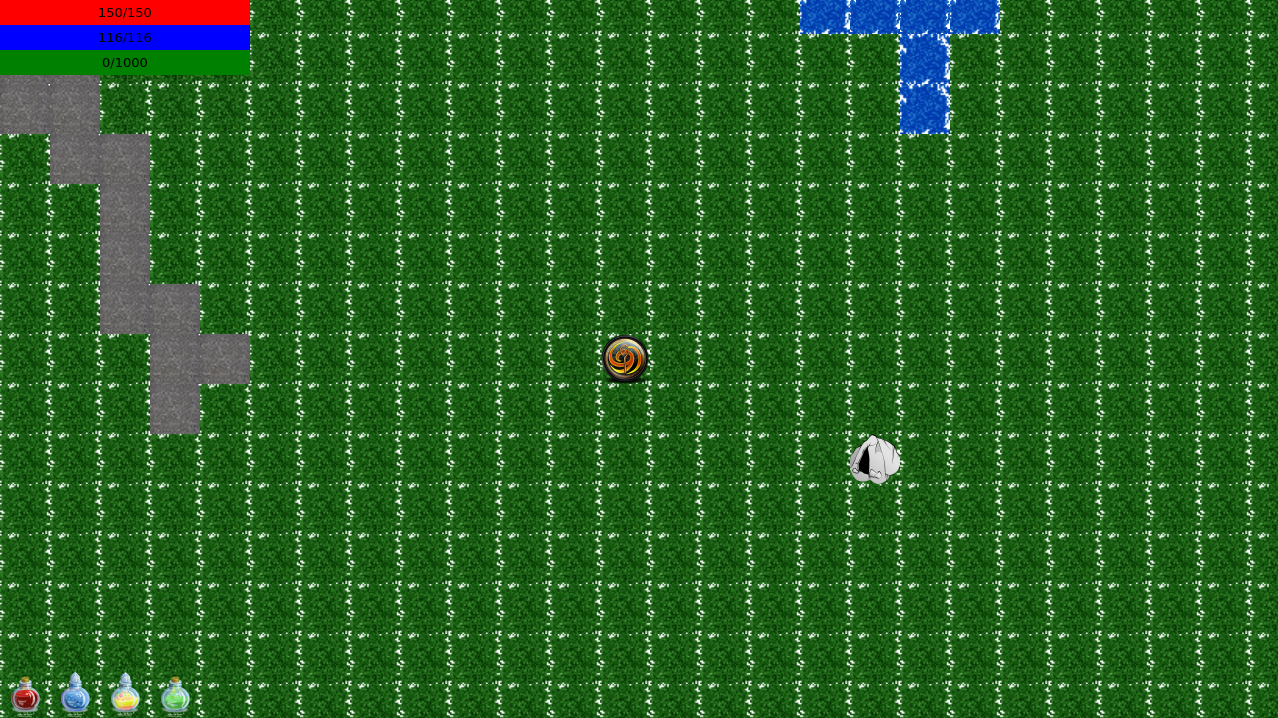
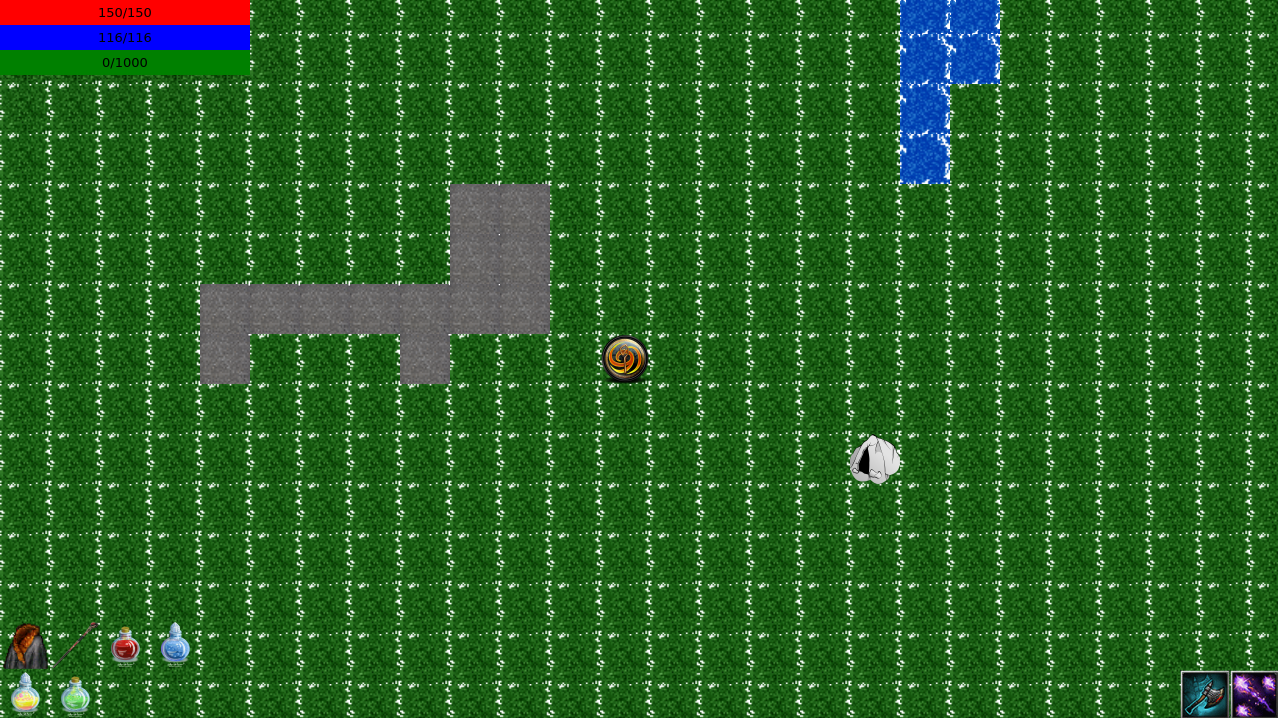
auto
Former-commit-id: fccc73179e9596ffe1958d8053b240f9b2e0ee6b
Former-commit-id: 14bdf90c29f3b774f9112ed11b044535b6a05c38

Recovered-from-commit: 3a165015af6c10f22c9951cc65ebf2d2150a89cc

diff --git a/creatures/player.cpp b/creatures/player.cpp
@@ -45,6 +45,7 @@ Player::Player(char *path,Map *map, int x, int y):Creature(path,map,x,y)
     list.push_back(new BlessPotion());
     list.push_back(new PoisonPotion());
     addItem(&list);
+    updateViews();
 }
 
 Player::~Player()
@@ -61,25 +62,6 @@ void Player::onMove()
 
 void Player::onEnter()
 {
-}
-
-void Player::addItem(Item *item)
-{
-    std::list<Item *> list;
-    list.push_back(item);
-    addItem(&list);
-}
-
-void Player::addItem(std::list<Item*> *items)
-{
-    inventory.merge(*items);
-    playerInventoryView->update();
-}
-
-void Player::loseItem(Item *item)
-{
-    inventory.remove(item);
-    playerInventoryView->update();
 }
 
 void Player::update()
@@ -101,11 +83,6 @@ void Player::update()
     }
 }
 
-std::list<Item *> *Player::getInventory()
-{
-    return &inventory;
-}
-
 PlayerStatsView *Player::getStatsView() {
     return playerStatsView;
 }
@@ -122,6 +99,23 @@ PlayerListView *Player::getSkillsView()
 void Player::addToFightList(Creature *creature)
 {
     fightList.push_back(creature);
+}
+
+void Player::removeFromFightList(Creature *creature)
+{
+    fightList.remove(creature);
+}
+
+std::list<Item *> *Player::getLoot()
+{
+    return &inventory;
+}
+
+void Player::updateViews()
+{
+    playerStatsView->update();
+    playerInventoryView->update();
+    playerSkillsView->update();
 }
 
 std::list<Creature *> *Player::getFightList() {
@@ -155,7 +149,18 @@ void *Player::performAction(Interaction *action, Creature *creature)
         }
     }
     if(!creature->isAlive()) {
-        defeatCreature(creature);
+        qDebug()<<className.c_str()<<"defeated"<<creature->className.c_str()<<"\n";
+        addExpScaled(creature->getScale());
+        addItem(creature->getLoot());
+        creature->removeFromGame();
+        removeFromFightList(creature);
+        if(fightList.size()==0) {
+            GameScene::getView()->getFightView()->setVisible(false);
+            FightView::selected=0;
+        } else {
+            FightView::selected=fightList.front();
+        }
+        updateViews();
     } else {
         qDebug()<<"";
         for(std::list<Creature*>::iterator it=fightList.begin(); it!=fightList.end(); it++) {
@@ -169,21 +174,6 @@ void *Player::performAction(Interaction *action, Creature *creature)
     return 0;
 }
 
-void Player::defeatCreature(Creature *creature)
-{
-    qDebug()<<className.c_str()<<"defeated"<<creature->className.c_str()<<"\n";
-    addExpScaled(creature->getScale());
-    addItem(creature->getLoot());
-    creature->removeFromGame();
-    fightList.remove(creature);
-    if(fightList.size()==0) {
-        GameScene::getView()->getFightView()->setVisible(false);
-        FightView::selected=0;
-    } else {
-        FightView::selected=fightList.front();
-    }
-    playerStatsView->update();
-}
 
 
 

diff --git a/creatures/creature.cpp b/creatures/creature.cpp
@@ -44,6 +44,7 @@ Creature::Creature(char *path, Map *map, int x, int y)
   alive = true;
   weapon = 0;
   armor = 0;
+  gold = 0;
 
   addAction(new Attack());
   initializeFromFile(path);
@@ -152,6 +153,29 @@ void Creature::addEffect(Effect *effect) {
   effects.push_back(effect);
 }
 
+void Creature::addItem(std::list<Item *> *items) {
+  inventory.merge(*items);
+  // Players show their inventory; a creature still being constructed is not yet one.
+  Player *player = dynamic_cast<Player *>(this);
+  if (player)
+    player->updateViews();
+}
+
+void Creature::addItem(Item *item) {
+  std::list<Item *> list;
+  list.push_back(item);
+  addItem(&list);
+}
+
+void Creature::loseItem(Item *item) {
+  inventory.remove(item);
+  Player *player = dynamic_cast<Player *>(this);
+  if (player)
+    player->updateViews();
+}
+
+std::list<Item *> *Creature::getInventory() { return &inventory; }
+
 int Creature::getMana() { return mana; }
 
 void Creature::addMana(int i) {
@@ -238,6 +262,15 @@ void Creature::initializeFromFile(char *path) {
   sw = config.get("sw", 0).asInt();
   stats.init(config["initStats"]);
   bonusLevel.init(config["levelStats"]);
+
+  std::list<Item *> items;
+  Json::Value names = config["items"];
+  for (unsigned int i = 0; i < names.size(); i++) {
+    Item *item = Item::getItem(names[i].asCString());
+    if (item)
+      items.push_back(item);
+  }
+  addItem(&items);
 
   attribChange();
   heal(0);

diff --git a/items/item.cpp b/items/item.cpp
@@ -6,7 +6,9 @@
 #include <stats/stats.h>
 #include <QDebug>
 #include <json/json.h>
+#include <items/armor.h>
 #include <fstream>
+#include <items/weapon.h>
 #include <interactions/interaction.h>
 
 Item::Item()
@@ -38,8 +40,27 @@ void Item::onUnequip(Creature *creature)
     qDebug() << creature->className.c_str()<<"unequipped"<<className.c_str();
 }
 
-Item *Item::getItem(char *name)
+Item *Item::getItem(const char *name)
 {
+    std::string path=name;
+    path="config/items/"+path+".json";
+    std::fstream jsonFileStream;
+    jsonFileStream.open (path);
+    if(!jsonFileStream.is_open()) {
+        jsonFileStream.open((std::string("assets:/")+path).c_str());
+    }
+    Json::Value config;
+    Json::Reader reader;
+    reader.parse( jsonFileStream, config );
+    jsonFileStream.close();
+    std::string type=config.get("type","").asString();
+    if(type.compare("weapon")==0)
+    {
+        return new Weapon(path.c_str());
+    } else if(type.compare("armor")==0) {
+        return new Armor(path.c_str());
+    }
+    return 0;
 }
 
 void Item::setAnimation(std::string path)
@@ -57,7 +78,7 @@ void Item::mousePressEvent(QGraphicsSceneMouseEvent *event)
     }
 }
 
-void Item::initializeFromFile(char *path)
+void Item::initializeFromFile(const char *path)
 {
     std::fstream jsonFileStream;
     jsonFileStream.open (path);

diff --git a/creatures/player.h b/creatures/player.h
@@ -17,9 +17,7 @@ public:
     Player(char *path, Map *map, int x, int y);
     ~Player();
 
-    std::list<Item *>* getLoot() {
-        return &inventory;
-    }
+    std::list<Item *>* getLoot();
 
     virtual void fight(Creature *creature);
 
@@ -29,34 +27,20 @@ public:
     void doLock();
     bool isLock();
 
-
-    void addItem(std::list<Item *> *items);
-
-    void addItem(Item *item);
-    void loseItem(Item *item);
-
     void update();
-
-    std::list<Item*> *getInventory();
+    void updateViews();
 
     PlayerStatsView *getStatsView();
     PlayerListView *getInventoryView();
     PlayerListView *getSkillsView();
 
     void addToFightList(Creature *creature);
-    std::list<Creature *> *getFightList();
+    void removeFromFightList(Creature *creature);
 
+    std::list<Creature *> *getFightList();
     void *performAction(Interaction *action,Creature *creature);
 
-    void defeatCreature(Creature *creature);
-protected:
-
-
-    int gold;
-
-    std::list<Item*> inventory;
 private:
-
     PlayerStatsView *playerStatsView;
     PlayerListView *playerInventoryView;
     PlayerListView *playerSkillsView;

diff --git a/items/item.h b/items/item.h
@@ -16,9 +16,8 @@ public:
     void setPos(QPointF point);
     virtual void onEquip(Creature *creature);
     virtual void onUnequip(Creature *creature);
-    \
 
-    static Item *getItem(char *name);
+    static Item *getItem(const char *name);
 
 protected:
     void setAnimation(std::string path);
@@ -27,7 +26,7 @@ protected:
     bool singleUse;
     Stats bonus;
     std::string className;
-    void initializeFromFile(char *path);
+    void initializeFromFile(const char *path);
     Interaction *interaction;
 };
 

diff --git a/creatures/creature.h b/creatures/creature.h
@@ -74,7 +74,14 @@ public:
 
     Stats *getLevelBonus();
     Interaction *getLevelAction();
+
+    void addItem(std::list<Item *> *items);
+    void addItem(Item *item);
+    void loseItem(Item *item);
+    std::list<Item *> *getInventory();
 protected:
+    int gold;
+    std::list<Item*> inventory;
     int exp;
     int level;
     int sw;

diff --git a/items/weapon.h b/items/weapon.h
@@ -8,7 +8,7 @@
 class Weapon : public Item
 {
 public:
-    Weapon(char *path);
+    Weapon(const char *path);
     Interaction *getInteraction();
     Stats *getStats();
 

diff --git a/items/armor.h b/items/armor.h
@@ -8,7 +8,7 @@
 class Armor : public Item
 {
 public:
-    Armor(char *path);
+    Armor(const char *path);
     Interaction *getInteraction();
 
 protected:

diff --git a/items/weapon.cpp b/items/weapon.cpp
@@ -5,7 +5,7 @@
 #include <view/gameview.h>
 
 
-Weapon::Weapon(char *path)
+Weapon::Weapon(const char* path)
 {
     initializeFromFile(path);
 }

diff --git a/items/armor.cpp b/items/armor.cpp
@@ -2,7 +2,7 @@
 
 #include <view/gamescene.h>
 
-Armor::Armor(char *path)
+Armor::Armor(const char *path)
 {
     initializeFromFile(path);
 }

diff --git a/README.md b/README.md
@@ -1,7 +1,7 @@
 # Recovered game snapshot
 
-Original commit: `2c626dc3beea8f1405e7250ab52724bb77d41e86`. Original tree: `e4c69b6564310ebaa622a6333504a0230ad2a445`.
-Startup was verified from identical recovered sources at `2c626dc3beea8f1405e7250ab52724bb77d41e86`.
+Original commit: `3a165015af6c10f22c9951cc65ebf2d2150a89cc`. Original tree: `ffda04a28a833dc10e2831de0d7358270de57a28`.
+Startup was verified from identical recovered sources at `3a165015af6c10f22c9951cc65ebf2d2150a89cc`.
 
 This recovered version compiled and linked on Linux, started the real game on an isolated Xvfb display,
 loaded its map and a healthy player, rendered the screenshot below, and exited normally.
@@ -37,9 +37,9 @@ launches run the game's original entry point. Startup evidence does not establis
 
 compatibilityRepair: 1, exactOriginal: 33, reconstruction: 15.
 
-- `Game.pro`: content reconstruction of the BFG-removed original; qmake project regenerated with 62 sources from object_script.Game.Debug; settings from intact d23993e8:Game.pro
-- `creatures/creature.cpp`: content reconstruction of the BFG-removed original; carried from the 5c4fab9c reconstruction with armor/weapon headers at their new items/ paths
-- `creatures/player.cpp`: content reconstruction of the BFG-removed original; carried from the 3096492a reconstruction; dropped includes of the item subclasses removed in this commit and included items/armor.h and items/weapon.h
+- `Game.pro`: content reconstruction of the BFG-removed original; qmake project regenerated from object_script.Game.Debug; settings from intact d23993e8:Game.pro
+- `creatures/creature.cpp`: content reconstruction of the BFG-removed original; from the c6dbc139 reconstruction: inventory, gold and addItem/loseItem/getInventory moved into Creature (same-commit creature.h/player.h), starting items from the configuration's items list through the surviving Item::getItem
+- `creatures/player.cpp`: content reconstruction of the BFG-removed original; from the 14bed295 reconstruction: inventory functions moved to Creature, out-of-line getLoot, updateViews and removeFromFightList, defeat handling folded back into performAction (defeatCreature removed from player.h)
 - `images/tiles/grass/0.png`: unverified donor reconstruction; c049ac73064442354af6224d06fe1c8b847bb8d9:images/tiles/grass/0.png; headerMatch=0; apiOverlap=0/10000; distance=105 Verified by build and startup of afdd8069 (recovery/evidence/second-original).
 - `images/tiles/ground/0.png`: unverified donor reconstruction; c049ac73064442354af6224d06fe1c8b847bb8d9:images/tiles/ground/0.png; headerMatch=0; apiOverlap=0/10000; distance=105 Verified by build and startup of afdd8069 (recovery/evidence/second-original).
 - `images/tiles/mountain/0.png`: unverified donor reconstruction; 152007b28631784d3c5e17f2686eb6ef9ff30e46:images/tiles/mountain/0.png; headerMatch=0; apiOverlap=0/10000; distance=155 Verified by build and startup of afdd8069 (recovery/evidence/second-original).
@@ -51,10 +51,10 @@ compatibilityRepair: 1, exactOriginal: 33, reconstruction: 15.
 - `json/json_writer.cpp`: unverified upstream reconstruction; https://github.com/open-source-parsers/jsoncpp/tree/4fce396c9d3e27a8ab8fb88e94c1676e021ae3a6
 - `map/map.cpp`: content reconstruction of the BFG-removed original; reconstructed against the original map.h/tile.h API (private AnimatedObject bases, Tile::addToGame, Destroyer-owned objects); Player comes through view/gamescene.h so the same file builds before and after creatures/players/ moved; carried unchanged across the 4a6a0310 source reformat
 - `stats/stats.cpp`: content reconstruction of the BFG-removed original; carried forward unchanged from the reconstruction of 1056f5a1bb90ad6555a946e3ee2e95334ea0cca5 (previous version of stats/stats.cpp); compiles in 3e4cc2a9d557307a635f980f58d11e04c61b2b8d
-- `view/gamescene.cpp`: content reconstruction of the BFG-removed original; carried forward unchanged from the reconstruction of 87d8078c26 (previous version of view/gamescene.cpp)
+- `view/gamescene.cpp`: content reconstruction of the BFG-removed original; carried forward unchanged from the reconstruction of 6e5718200d (previous version of view/gamescene.cpp)
 - `json/LICENSE`: https://github.com/open-source-parsers/jsoncpp/tree/4fce396c9d3e27a8ab8fb88e94c1676e021ae3a6 upstream distribution license
 
[2 lines of base64/hex data omitted]
 
 The actual 1278 × 718 screenshot and [verification metadata](recovery/verification.json) belong to
 this source version. Reconstructed code and borrowed assets are identified in that metadata; they are
